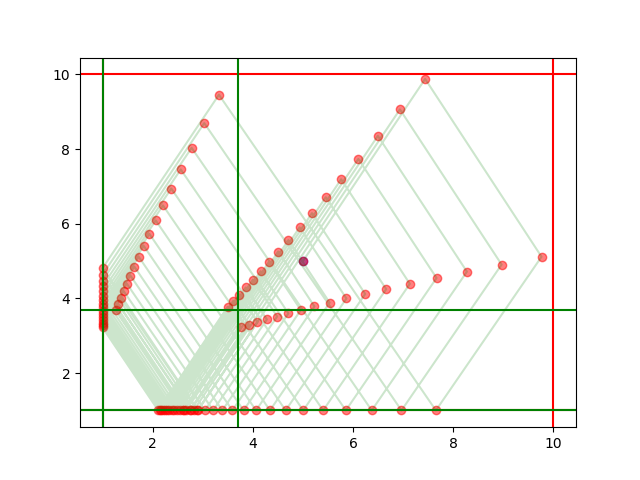
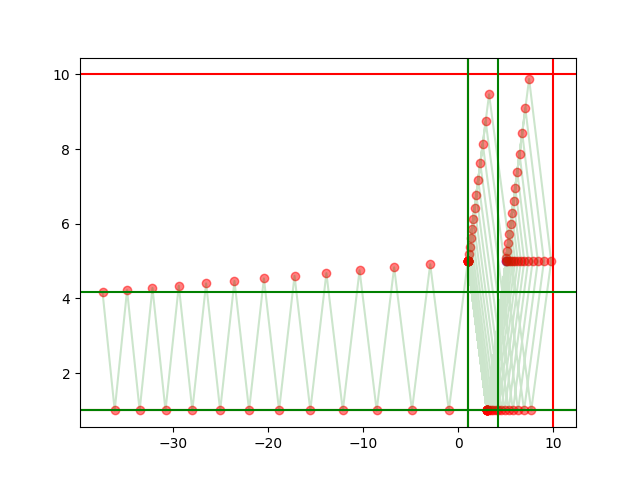
fix collision with corners. Examples are not updated

diff --git a/Billiards/Examples/billiard_size_decreasing.py b/Billiards/Examples/billiard_size_decreasing.py
@@ -1,7 +1,7 @@
-# from Billares.obstacles import InfiniteWall, Disk, Ball
+import timeit
 
-# from Billares.obstacles import Obstacle
-from Billiards.physics import elastic_collision, time_of_impact_with_wall
+from Billiards.physics import calc_next_obstacle
+from Billiards.obstacles import InfiniteWall, Ball
 
 import matplotlib.pyplot as plt
 import numpy as np
@@ -9,86 +9,13 @@ import numpy as np
 import os
 
 
-class Ball:
-    """ A ball which is going to move in the billiard"""
-
-    def __init__(self, pos, vel, radius=0) -> None:
-        """
-         Args:
-            point: Position of the ball
-            velocity: Velocity of the ball.
-            radius: Radius pf the ball. Default: 0
-           """
-        self.pos = np.asarray(pos)
-        self.velocity = np.asarray(vel)
-        self.radius = radius
-
-
-class InfiniteWall:
-    """ An infinite wall where balls can collide only from one side. """
-
-    def __init__(self, start_point, end_point, velocity, side) -> None:
-        """
-         Args:
-            start_point: A point of the wall.
-            end_point: A point of the wall.
-            vel: Velocity of the wall.
-            side: Position of the wall: left, right, top, bottom.
-           """
-        self.start_point = np.asarray(start_point)
-        self.end_point = np.asarray(end_point)
-        self.velocity = np.asarray(velocity)
-        self.side = side
-
-        dx, dy = self.end_point - self.start_point
-        if dx == 0 and dy == 0:
-            raise ValueError(f"this is not a line.{self.start_point}, {self.end_point}, {side}")
-
-        if side == "right" or side == "bottom":
-            self._normal = -np.asarray([-dy, dx]) / np.linalg.norm([-dy, dx])
-        else:
-            self._normal = np.asarray([-dy, dx]) / np.linalg.norm([-dy, dx])
-
-    def calc_toi(self, pos, vel, radius):
-        return time_of_impact_with_wall(pos, vel, radius, self.start_point, self.velocity, self._normal, self.side)
-
-    def update(self, vel):
-        """ Calculate the velocity of a ball after colliding with the wall. """
-        # print(self._normal, self.end_point, self.start_point)
-        return vel - 2 * self._normal * np.dot(vel, self._normal) + self.velocity
-
-
-def calc_next_obstacle(pos, vel, radius, obstacles):
-    """ Find the closest colliding obstacle for the given ball
-
-        Args:
-            idx: Index of the ball
-
-        Returns:
-            tuple: (time, velocity of the ball)-pair of the next collision or (INF, None) if ball will not impact any obstacle
-    """
-
-    t_min, obs_min = INF, None
-    for obs in obstacles:
-        # t = obs.calc_toi(pos, vel, radius)
-        t = time_of_impact_with_wall(pos, vel, radius, obs.start_point, obs.velocity, obs._normal, obs.side)
-        """ print(f" - Muro  {obs.side} : {t}")
-        print(f"Posicion bola:{pos}")
-        print(f"Velocidad bola:{vel}")
-        print(f"Posicion Muro:{obs.start_point}") """
-        if t > 0 and t < t_min:
-            t_min, obs_min = t, obs
-        # ¿What if none of the collide?
-    return t_min, obs_min
-
-
 INF = float("inf")
 
 # Velocities of walls
-top_wall_velocity = np.asarray([0, -0.5], dtype=np.float64)
+top_wall_velocity = np.asarray([0, 0], dtype=np.float64)
 bottom_wall_velocity = np.asarray([0, 0], dtype=np.float64)
 left_wall_velocity = np.asarray([0, 0])
-right_wall_velocity = np.asarray([-0.5, 0])
+right_wall_velocity = np.asarray([10, 0])
 
 # Position of walls
 top_wall_position = np.asarray([[0, 10], [2, 10]], dtype=np.float64)
@@ -98,7 +25,7 @@ right_wall_position = np.asarray([[10, 0], [10, 1]])
 
 # Creating a ball
 pos_ball = np.asarray([5, 5])
-vel1 = np.asarray([10, 20])
+vel1 = np.asarray([-300, 200])
 ball = Ball(pos_ball, vel1)
 
 # Array which will storage the properties of the ball for each collision
@@ -131,7 +58,7 @@ while i < num_of_iterations:
 
     # If two walls are at the same position there is no billiard.
     if top_wall_position[0][1] == bottom_wall_position[0][1] or left_wall_position[1][0] == right_wall_position[1][0]:
-        print("There is no more billiard. Some walls has fusioned.")
+        print("There is no more billiard. Some walls has merged.")
         break
 
     # Adding walls' position to teh array
@@ -149,16 +76,31 @@ while i < num_of_iterations:
     obstacles = [top_wall, bottom_wall, left_wall, right_wall]
 
     # Time to the next collision and with the resulting wall
-    t, obstacle_collide = calc_next_obstacle(ball.pos, ball.velocity, ball.radius, obstacles)
+    times_obstacles = calc_next_obstacle(ball.pos, ball.velocity, ball.radius, obstacles)
+
+    t = times_obstacles[0][0]
+
     if t == INF:
         print("No more collisions")
         break
 
     # Update properties of the ball
-    new_ball_velocity = obstacle_collide.update(vel1)
-    pos_ball = ball.pos + ball.velocity * t
-    vel1 = new_ball_velocity
-    ball = Ball(pos_ball, vel1, 0.0)
+    if times_obstacles[1][0] - times_obstacles[0][0] < 1e-6: # Time difference is to close, it collides with a corner
+        if times_obstacles[0][1].side == "top" or times_obstacles[0][1].side == "bottom":
+           new_ball_velocity_Y = times_obstacles[0][1].update(vel1)[1]
+           new_ball_velocity_X = times_obstacles[1][1].update(vel1)[0]
+        else:
+           new_ball_velocity_X = times_obstacles[0][1].update(vel1)[0]
+           new_ball_velocity_Y = times_obstacles[1][1].update(vel1)[1]
+        vel1 = (new_ball_velocity_X, new_ball_velocity_Y)
+        pos_ball = ball.pos + ball.velocity * t
+        ball = Ball(pos_ball, vel1, 0.0)
+    else:
+        new_ball_velocity = times_obstacles[0][1].update(vel1)
+        pos_ball = ball.pos + ball.velocity * t
+        vel1 = new_ball_velocity
+        ball = Ball(pos_ball, vel1, 0.0)
+
 
     # Storage of time
     time += t
@@ -185,6 +127,7 @@ while i < num_of_iterations:
     print(f"Current time simulation: {simulation_time[i+1]}") """
     i += 1
 
+
 # Separation of the components of the position vector
 ball_positions_X = [punto[0] for punto in ball_positions]
 ball_positions_Y = [punto[1] for punto in ball_positions]
@@ -200,7 +143,7 @@ plt.axvline(right_wall_position[1][0], color="green")
 plt.plot(ball_positions_X, ball_positions_Y, alpha=0.2, color="green")
 plt.scatter(ball_positions_X, ball_positions_Y, alpha=0.5, color="red")
 
-plt.savefig(os.path.dirname(__file__) + "/" + os.path.basename(__file__).split(".")[0] + "_path.png")
+#plt.savefig(os.path.dirname(__file__) + "/" + os.path.basename(__file__).split(".")[0] + "_path.png")
 
 plt.show()
 
@@ -222,6 +165,6 @@ ax[2].plot(iterations, ball_positions_Y)
 ax[2].title.set_text("Y")
 plt.tight_layout()
 
-plt.savefig(os.path.dirname(__file__) + "/" + os.path.basename(__file__).split(".")[0] + "_properties.png")
+#plt.savefig(os.path.dirname(__file__) + "/" + os.path.basename(__file__).split(".")[0] + "_properties.png")
 
 plt.show()

diff --git a/Billiards/Examples/All_static.py b/Billiards/Examples/All_static.py
@@ -1,105 +1,31 @@
-# from Billares.obstacles import InfiniteWall, Disk, Ball
 
-# from Billares.obstacles import Obstacle
-from Billiards.physics import elastic_collision, time_of_impact_with_wall
+from Billiards.obstacles import Ball, InfiniteWall
+from Billiards.physics import calc_next_obstacle
+
 
 import matplotlib.pyplot as plt
 import numpy as np
 
 import os
 
-
-class Ball:
-    """ A ball which is going to move in the billiard"""
-
-    def __init__(self, pos, vel, radius=0) -> None:
-        """
-         Args:
-            point: Position of the ball
-            velocity: Velocity of the ball.
-            radius: Radius pf the ball. Default: 0
-           """
-        self.pos = np.asarray(pos)
-        self.velocity = np.asarray(vel)
-        self.radius = radius
-
-
-class InfiniteWall:
-    """ An infinite wall where balls can collide only from one side. """
-
-    def __init__(self, start_point, end_point, velocity, side) -> None:
-        """
-         Args:
-            start_point: A point of the wall.
-            end_point: A point of the wall.
-            vel: Velocity of the wall.
-            side: Position of the wall: left, right, top, bottom.
-           """
-        self.start_point = np.asarray(start_point)
-        self.end_point = np.asarray(end_point)
-        self.velocity = np.asarray(velocity)
-        self.side = side
-
-        dx, dy = self.end_point - self.start_point
-        if dx == 0 and dy == 0:
-            raise ValueError(f"this is not a line.{self.start_point}, {self.end_point}, {side}")
-
-        if side == "right" or side == "bottom":
-            self._normal = -np.asarray([-dy, dx]) / np.linalg.norm([-dy, dx])
-        else:
-            self._normal = np.asarray([-dy, dx]) / np.linalg.norm([-dy, dx])
-
-    def calc_toi(self, pos, vel, radius):
-        return time_of_impact_with_wall(pos, vel, radius, self.start_point, self.velocity, self._normal, self.side)
-
-    def update(self, vel):
-        """ Calculate the velocity of a ball after colliding with the wall. """
-        # print(self._normal, self.end_point, self.start_point)
-        #return vel - 2 * self._normal * np.dot(vel, self._normal) + self.velocity
-        return vel - 2 * self._normal * np.dot((vel - self.velocity), self._normal)
-
-
-def calc_next_obstacle(pos, vel, radius, obstacles):
-    """ Find the closest colliding obstacle for the given ball
-
-        Args:
-            idx: Index of the ball
-
-        Returns:
-            tuple: (time, velocity of the ball)-pair of the next collision or (INF, None) if ball will not impact any obstacle
-    """
-
-    t_min, obs_min = INF, None
-    for obs in obstacles:
-        # t = obs.calc_toi(pos, vel, radius)
-        t = time_of_impact_with_wall(pos, vel, radius, obs.start_point, obs.velocity, obs._normal, obs.side)
-        """ print(f" - Muro  {obs.side} : {t}")
-        print(f"Posicion bola:{pos}")
-        print(f"Velocidad bola:{vel}")
-        print(f"Posicion Muro:{obs.start_point}") """
-        if t > 0 and t < t_min:
-            t_min, obs_min = t, obs
-        # ¿What if none of the collide?
-    return t_min, obs_min
-
-
 INF = float("inf")
 
+
 # Velocities of walls
-top_wall_velocity = np.asarray([0, 2], dtype=np.float64)
+top_wall_velocity = np.asarray([0, 0], dtype=np.float64)
 bottom_wall_velocity = np.asarray([0, 0], dtype=np.float64)
 left_wall_velocity = np.asarray([0, 0])
 right_wall_velocity = np.asarray([0, 0])
 
 # Position of walls
-top_wall_position = np.asarray([[0, 10], [2, 10]], dtype=np.float64)
+top_wall_position = np.asarray([[0, 100], [2, 100]], dtype=np.float64)
 bottom_wall_position = np.asarray([[0, 1], [2, 1]], dtype=np.float64)
 left_wall_position = np.asarray([[1, 0], [1, 1]])
-right_wall_position = np.asarray([[10, 0], [10, 1]])
+right_wall_position = np.asarray([[100, 0], [100, 1]])
 
 # Creating a ball
 pos_ball = np.asarray([5, 5])
-vel1 = np.asarray([-30, 20])
+vel1 = np.asarray([-300, 200])
 ball = Ball(pos_ball, vel1)
 
 # Array which will storage the properties of the ball for each collision
@@ -126,7 +52,7 @@ plt.axvline(left_wall_position[1][0], color="red")
 plt.axvline(right_wall_position[1][0], color="red")
 
 # Number of collisions and starting the simulation
-num_of_iterations = 100
+num_of_iterations = 1000
 i = 0
 while i < num_of_iterations:
 
@@ -201,7 +127,7 @@ plt.axvline(right_wall_position[1][0], color="green")
 plt.plot(ball_positions_X, ball_positions_Y, alpha=0.2, color="green")
 plt.scatter(ball_positions_X, ball_positions_Y, alpha=0.5, color="red")
 
-#plt.savefig(os.path.dirname(__file__) + "/" + os.path.basename(__file__).split(".")[0] + "_path.png")
+plt.savefig(os.path.dirname(__file__) + "/" + os.path.basename(__file__).split(".")[0] + "_path.png")
 
 plt.show()
 
@@ -223,6 +149,6 @@ ax[2].plot(iterations, ball_positions_Y)
 ax[2].title.set_text("Y")
 plt.tight_layout()
 
-#plt.savefig(os.path.dirname(__file__) + "/" + os.path.basename(__file__).split(".")[0] + "_properties.png")
+plt.savefig(os.path.dirname(__file__) + "/" + os.path.basename(__file__).split(".")[0] + "_properties.png")
 
 plt.show()

diff --git a/Billiards/obstacles.py b/Billiards/obstacles.py
@@ -1,0 +1,53 @@
+import numpy as np
+
+from Billiards.physics import time_of_impact_with_wall
+
+class Ball:
+    """ A ball which is going to move in the billiard"""
+
+    def __init__(self, pos, vel, radius=0) -> None:
+        """
+         Args:
+            pos: Position of the ball
+            vel: Velocity of the ball.
+            radius: Radius pf the ball. Default: 0
+           """
+        self.pos = np.asarray(pos)
+        self.velocity = np.asarray(vel)
+        self.radius = radius
+
+
+
+class InfiniteWall:
+    """ An infinite wall where balls can collide only from one side. """
+
+    def __init__(self, start_point, end_point, velocity, side) -> None:
+        """
+         Args:
+            start_point: A point of the wall.
+            end_point: A point of the wall.
+            velocity: Velocity of the wall.
+            side: Position of the wall: left, right, top, bottom.
+           """
+        self.start_point = np.asarray(start_point)
+        self.end_point = np.asarray(end_point)
+        self.velocity = np.asarray(velocity)
+        self.side = side
+
+        dx, dy = self.end_point - self.start_point
+        if dx == 0 and dy == 0:
+            raise ValueError(f"this is not a line.{self.start_point}, {self.end_point}, {side}")
+
+        if side == "right" or side == "bottom":
+            self._normal = -np.asarray([-dy, dx]) / np.linalg.norm([-dy, dx])
+        else:
+            self._normal = np.asarray([-dy, dx]) / np.linalg.norm([-dy, dx])
+
+    def calc_toi(self, pos, vel, radius):
+        return time_of_impact_with_wall(pos, vel, radius, self.start_point, self.velocity, self._normal, self.side)
+
+    def update(self, vel):
+        """ Calculate the velocity of a ball after colliding with the wall. """
+        # print(self._normal, self.end_point, self.start_point)
+        #return vel - 2 * self._normal * np.dot(vel, self._normal) + self.velocity
+        return vel - 2 * self._normal * np.dot((vel - self.velocity), self._normal)

diff --git a/Billiards/physics.py b/Billiards/physics.py
@@ -186,3 +186,24 @@ def time_of_impact_with_wall(pos1, vel1, radius, posW, velW, _normal, side):
         return INF
     else:
         return t
+
+
+def calc_next_obstacle(pos, vel, radius, obstacles):
+    """ Find the closest colliding obstacle for the given ball
+
+        Args:
+            pos : Position of the ball
+            vel : VElocity of the ball
+            radius : Radius of the ball
+            obstacles : List of obstacles in the billiard
+
+        Returns:
+            sorted list of (time, obstacle)-pair of the next collision or INF if never collide
+    """
+    times = []
+    for obs in obstacles:
+        # t = obs.calc_toi(pos, vel, radius)
+        t = time_of_impact_with_wall(pos, vel, radius, obs.start_point, obs.velocity, obs._normal, obs.side)
+        times.append((t, obs))
+    return sorted(times, key=lambda x: x[0])
+
